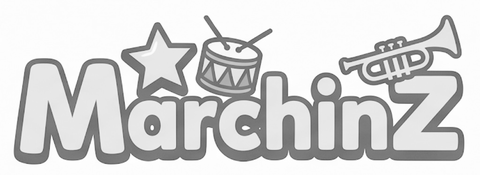
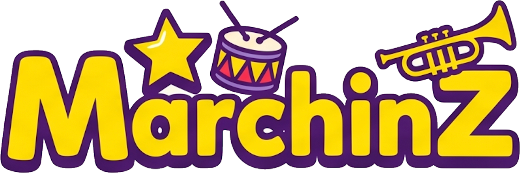
fix(tools): ウォーターマーク透過化+右上端寄せ/Switcherフィルター初期値MarchinZ/自動スイッチングは境界線初期オフ
- marchinz-wm.png: JPEG由来の白背景付き(全ピクセル不透明)だった素材を、
  logo_font.pngから外周flood-fill+1pxフェザーで背景透過化した520x173へ差し替え
- watermark.js: 右上の隅ぎりぎりへ(横 右40/上40→右16/上16、縦 右30/上120→右12/上24)
- Switcher: フィルターの復元を廃止(初期値は常にMarchinZ)
- Switcher: モード選択時に境界線の初期値を設定(自動スイッチング=オフ、縦型=オン)

検証: 合成3カメラ素材(WebCodecs生成)でE2E — 波形同期(offset 1.8/2.6s理論値一致)→
自動カット割(3カット・3カメラ巡回)→プレビュー/書き出しMP4とも時刻ごとに
正しいカメラへ切替(画素判定)。自動スイッチング機能自体は正常動作を確認

diff --git a/tools/shared/watermark.js b/tools/shared/watermark.js
@@ -2,15 +2,15 @@
 /* ============ クリエイターツール共通: MarchinZウォーターマーク ============
    書き出し映像とプレビューへ控えめにロゴを載せる(Switcher / ReAngle)。
 
-   フルHD基準の設定値(解像度に比例スケール):
-   - 横(1920×1080): 幅110px、右40px・上40px、不透明度35%
-   - 縦(1080×1920): 幅90px、右30px・上120px、不透明度35%
-     (スマホ視聴時に各SNSの上部UIと被らないよう、縦は上の余白を広めに) */
+   フルHD基準の設定値(解像度に比例スケール)。ロゴは透過PNG(背景なし)で
+   右上の隅ぎりぎりに置く(2026-07-19 優さん指定):
+   - 横(1920×1080): 幅110px、右16px・上16px、不透明度35%
+   - 縦(1080×1920): 幅90px、右12px・上24px、不透明度35% */
 
 window.MZWM = (() => {
   const SPEC = {
-    landscape: { w: 110, right: 40, top: 40,  refW: 1920 },
-    portrait:  { w: 90,  right: 30, top: 120, refW: 1080 },
+    landscape: { w: 110, right: 16, top: 16, refW: 1920 },
+    portrait:  { w: 90,  right: 12, top: 24, refW: 1080 },
   };
   const ALPHA = 0.35;
   const img = new Image();

diff --git a/tools/switcher/js/app.js b/tools/switcher/js/app.js
@@ -17,7 +17,7 @@ window.addEventListener("DOMContentLoaded", async () => {
     if (saved.horizonOn != null) MC.S.horizonOn = saved.horizonOn;
     else if (Array.isArray(saved.clips) && saved.clips.some(c => c.rot)) MC.S.horizonOn = true; // 旧プロジェクト移行: rot設定済みなら水平補正ONを維持
     if (saved.colorStrength != null) MC.S.colorStrength = saved.colorStrength;
-    if (saved.filterId && MC.color.FILTERS[saved.filterId]) MC.S.filterId = saved.filterId;
+    // フィルターは復元しない: 初期値は常に「MarchinZ」(2026-07-19 優さん指定)
     if (saved.beatsPerBar) MC.S.beatsPerBar = saved.beatsPerBar;
     // 切替頻度: 旧5段階の保存値は3段階(少なめ/おすすめ/多め)へ寄せる
     if (saved.cutLevel >= 1 && saved.cutLevel <= 5) {

diff --git a/tools/switcher/js/ui.js b/tools/switcher/js/ui.js
@@ -424,7 +424,13 @@ MC.ui.normalizeForMode = () => {
 MC.ui.chooseMode = (mode, { silent = false } = {}) => {
   const m = MC.ui.MODES[mode] || MC.ui.MODES.vertical;
   MC.S.mode = mode;
-  if (!silent) { MC.S.preset = m.preset; MC.S.layoutId = m.layoutId; }
+  if (!silent) {
+    MC.S.preset = m.preset;
+    MC.S.layoutId = m.layoutId;
+    // 境界線の初期値はモードで変える: 自動スイッチングはオフ(全画面カットに枠は不要)、
+    // 縦型(分割)はオン(2026-07-19 優さん指定)
+    MC.S.borderOn = mode !== "switch";
+  }
   MC.ui.normalizeForMode();
   if (!silent) MC.saveState();
   MC.ui.$("#modeSelect").hidden = true;
